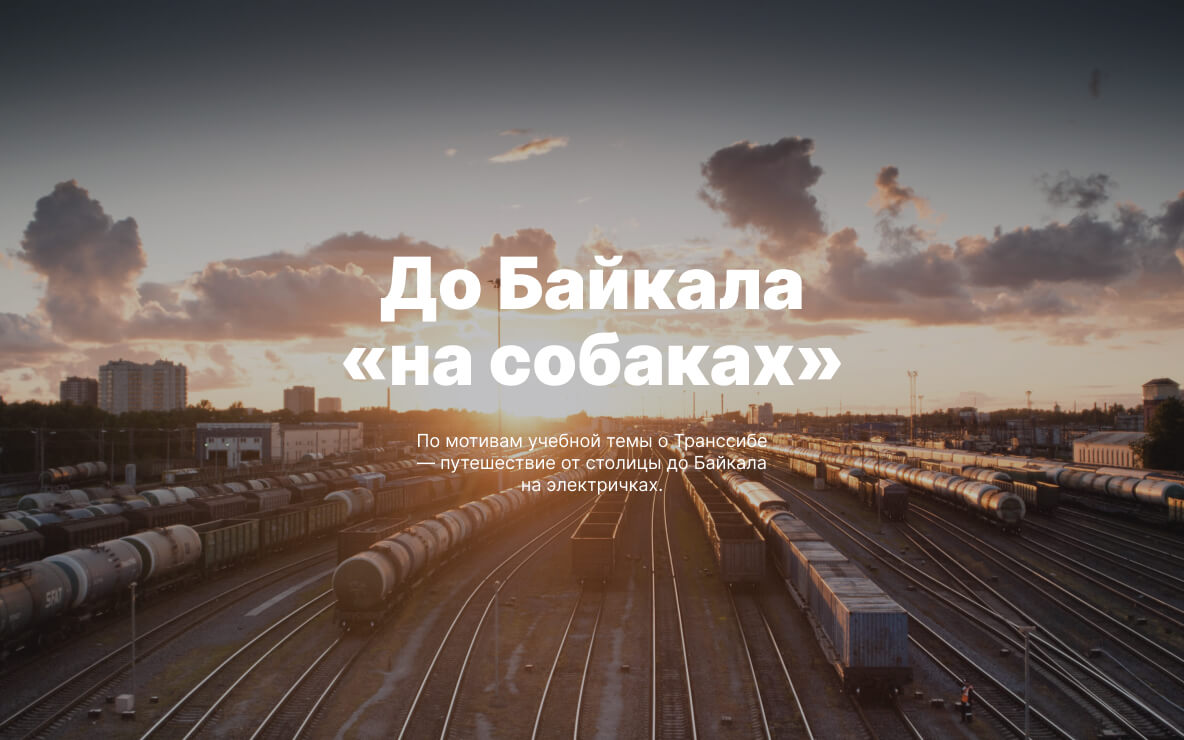
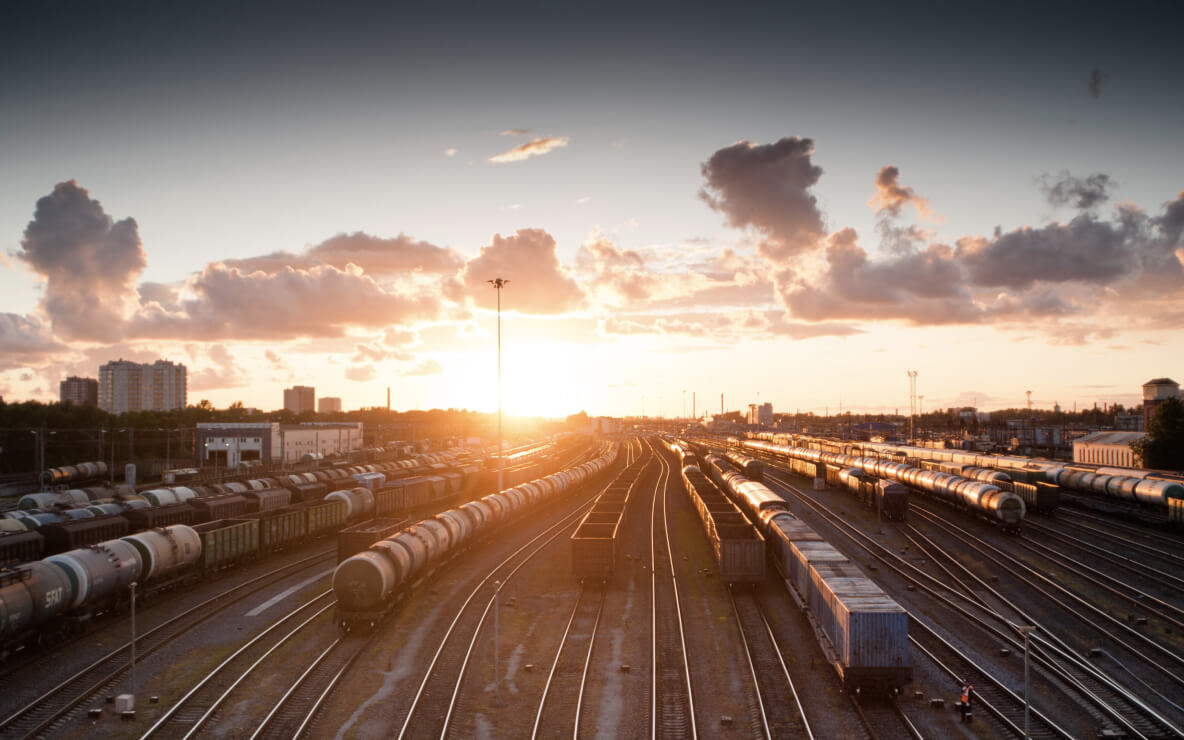
оверлэй и основные брейкпоинты

diff --git a/styles/styles.css b/styles/styles.css
@@ -47,72 +47,10 @@
 @import url(../blocks/place/__paragraph/place__paragraph.css);
 
 
+@import url(../blocks/cover/cover.css);
+@import url(../blocks/cover/__image/cover__image.css);
+@import url(../blocks/cover/__image-container/cover__image-container.css);
+@import url(../blocks/cover/__description/cover__description.css);
+@import url(../blocks/cover/__title/cover__title.css);
+@import url(../blocks/cover/__text/cover__text.css);
 
-
-.grid-container {
-  box-sizing: border-box;
-  padding: 5px;
-  display: grid;
-  width: 80%;
-  /*height: 90vh;*/
-  background: rosybrown;
-  margin: 0 auto;
-
-  grid-template-columns: repeat(3, 150px);
-  grid-template-rows: 50px 50px 50px;
-  column-gap: 10px;
-  row-gap: 10px;
-
-  grid-template-areas:
-  "header header header"
-  "news news aside"
-  "news news aside"
-  "footer footer footer";
-}
-
-.grid-item {
-  text-align: center;
-  /*height: 50px;*/
-  line-height: 50px;
-  background: saddlebrown;
-  border: 2px solid #4e4d4d;
-  border-radius: 5px;
-}
-
-#one {
-  grid-area: header;
-  background: black;
-}
-
-#two {
-  grid-area: header;
-  background: black;
-}
-
-#three {
-  grid-area: header;
-  background: black;
-}
-
-#four {
-  grid-area: news;
-}
-
-#five {
-  grid-area: aside;
-}
-
-#six {
-  grid-area: footer;
-  background: rosybrown;
-}
-
-#seven {
-  grid-area: footer;
-  background: rosybrown;
-}
-
-#eight {
-  grid-area: footer;
-  background: rosybrown;
-}

diff --git a/index.html b/index.html
@@ -190,26 +190,17 @@
         </div>
       </section>
 
-
-
-
-
-
-
-
-
-<!--      <div class="grid-container">-->
-<!--        <div id="one" class="grid-item">1</div>-->
-<!--        <div id="two" class="grid-item">2</div>-->
-<!--        <div id="three" class="grid-item">3</div>-->
-<!--        <div id="four" class="grid-item">3</div>-->
-<!--        <div id="five" class="grid-item">3</div>-->
-<!--        <div id="six" class="grid-item">3</div>-->
-<!--        <div id="seven" class="grid-item">3</div>-->
-<!--        <div id="eight" class="grid-item">3</div>-->
-<!--      </div>-->
-
-
+      <div class="cover">
+        <div class="cover__image-container">
+          <img src="./images/prefooter-img.jpg" alt="" class="cover__image">
+          <div class="cover__description">
+            <h2 class="cover__title">До Байкала «на собаках»</h2>
+            <p class="cover__text">
+              По мотивам учебной темы о Транссибе — путешествие от столицы до Байкала на электричках.
+            </p>
+          </div>
+        </div>
+      </div>
 
 
     </main>

diff --git a/blocks/gallery/gallery.css b/blocks/gallery/gallery.css
@@ -1,6 +1,6 @@
 .gallery {
   display: grid;
-  grid-template-columns: repeat(4, 1fr);
+  grid-template-columns: repeat(auto-fill, minmax(225px, 1fr));
   gap: 16px;
   list-style: none;
   padding-left: 0;
@@ -9,6 +9,12 @@
 
 @media screen and (max-width: 1024px) {
   .gallery {
-    grid-template-columns: repeat(3, 1fr);
+    gap: 14px;
+  }
+}
+
+@media screen and (max-width: 768px) {
+  .gallery {
+    gap: 16px;
   }
 }

diff --git a/blocks/cover/__image-container/cover__image-container.css b/blocks/cover/__image-container/cover__image-container.css
@@ -1,0 +1,16 @@
+.cover__image-container {
+  position: relative;
+  display: flex;
+  justify-content: center;
+  align-items: center;
+}
+
+/*overlay*/
+.cover__image-container::before {
+  content: "";
+  position: absolute;
+  width: 100%;
+  height: 100%;
+  background: rgba(0,0,0, .3);
+}
+

diff --git a/blocks/cover/cover.css b/blocks/cover/cover.css
@@ -1,0 +1,13 @@
+.cover {
+  padding: 92px 48px 0;
+  margin: 0 auto;
+}
+
+/*.photo-grid:before {*/
+/*  content: "";*/
+/*  display: block;*/
+/*  width: 100vw;*/
+/*  height: 100vh;*/
+/*  background: red;*/
+/*}*/
+

diff --git a/blocks/place/__paragraph/place__paragraph.css b/blocks/place/__paragraph/place__paragraph.css
@@ -5,7 +5,7 @@
   font-weight: 400;
 }
 
-@media screen and (max-width: 768px) {
+@media screen and (max-width: 860px) {
   .place__paragraph {
     font-size: 16px;
     line-height: 26px;

diff --git a/blocks/cover/__text/cover__text.css b/blocks/cover/__text/cover__text.css
@@ -1,0 +1,8 @@
+.cover__text {
+  text-align: center;
+  max-width: 360px;
+  margin: 32px auto 0;
+  font-size: 18px;
+  line-height: 22px;
+  font-weight: 400;
+}

diff --git a/blocks/cover/__title/cover__title.css b/blocks/cover/__title/cover__title.css
@@ -1,0 +1,10 @@
+.cover__title {
+  font-size: 72px;
+  line-height: 76px;
+  font-weight: 900;
+  margin: 0;
+  top: 100px;
+  text-align: center;
+}
+
+

diff --git a/blocks/photo-grid/photo-grid.css b/blocks/photo-grid/photo-grid.css
@@ -1,3 +1,10 @@
 .photo-grid {
   padding: 92px 48px 0;
 }
+
+
+@media screen and (max-width: 768px) {
+  .photo-grid {
+    padding: 92px 24px 0;
+  }
+}

diff --git a/blocks/cover/__description/cover__description.css b/blocks/cover/__description/cover__description.css
@@ -1,0 +1,5 @@
+.cover__description {
+  position: absolute;
+  max-width: 560px;
+}
+

diff --git a/blocks/cover/__image/cover__image.css b/blocks/cover/__image/cover__image.css
@@ -1,0 +1,3 @@
+.cover__image {
+  width: 100%;
+}
